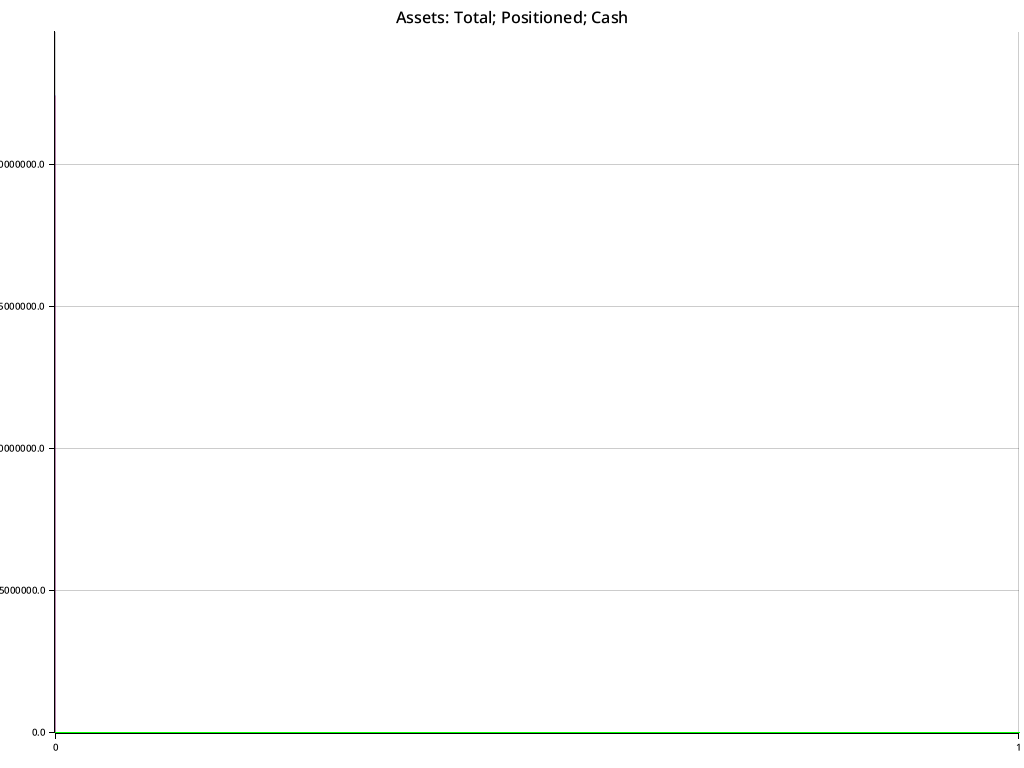
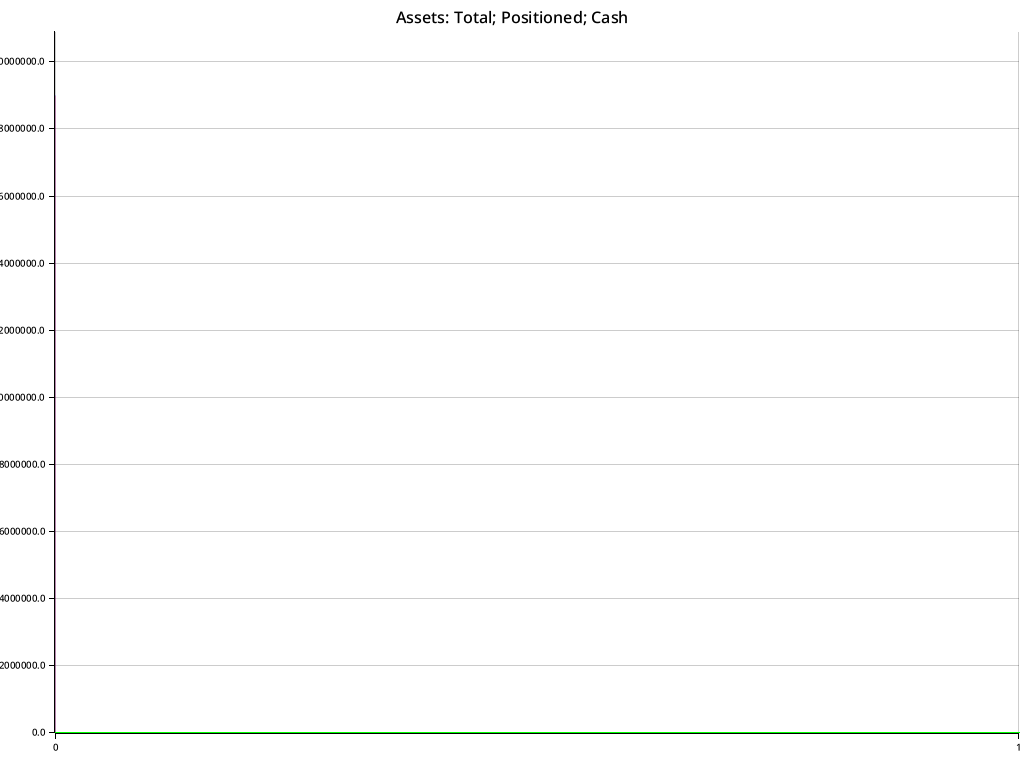
atlernative price and reward options

diff --git a/src/burn/env.rs b/src/burn/env.rs
@@ -9,12 +9,7 @@ use crate::{
         agent::base::{Action, ElemType, Environment, Snapshot},
         constants::OBSERVATION_SIZE,
         obs_state::ObservationState,
-    },
-    constants::TICKERS,
-    data::historical::get_historical_data,
-    history::{episode_tickers_combined::EpisodeHistory, meta_tickers_combined::MetaHistory},
-    types::Account,
-    utils::{get_mapped_price_deltas, get_price_deltas},
+    }, charts::general::simple_chart, constants::TICKERS, data::historical::get_historical_data, history::{episode_tickers_combined::EpisodeHistory, meta_tickers_combined::MetaHistory}, types::Account, utils::{get_mapped_price_deltas, get_mapped_price_normals, get_price_deltas}
 };
 
 #[derive(Debug)]
@@ -109,15 +104,15 @@ impl Environment for Env {
                     self.episode_history.sells[0]
                         .insert(self.step, (current_prices[self.step], quantity));
 
-                    reward += self
-                        .account
-                        .positions
-                        .iter()
-                        .enumerate()
-                        .map(|(index, position)| {
-                            position.appreciation(self.prices[index][self.step]) * sell_total
-                        })
-                        .sum::<f64>();
+                    // reward += self
+                    //     .account
+                    //     .positions
+                    //     .iter()
+                    //     .enumerate()
+                    //     .map(|(index, position)| {
+                    //         position.appreciation(self.prices[index][self.step]) * sell_total
+                    //     })
+                    //     .sum::<f64>();
                 }
             }
             TradeAction::Hold => {}
@@ -141,10 +136,19 @@ impl Environment for Env {
         // Reward
 
         self.account.update_total(&self.prices, self.step);
-        // let reward = (self.account.total_assets - total_assets) / total_assets;
+        let reward = (self.account.total_assets - total_assets) / total_assets;
         // let reward = self.account.total_assets - Self::STARTING_CASH;
         // Increase/decrease in value of positions
-        // let reward = self.account.positions.iter().enumerate().map(|(index, position)| position.appreciation(self.prices[index][self.step])).sum();
+        // let reward = self
+        //     .account
+        //     .positions
+        //     .iter()
+        //     .enumerate()
+        //     .map(|(index, position)| {
+        //         position.appreciation(self.prices[index][self.step])
+        //             * position.cost_basis()
+        //     })
+        //     .sum();
 
         self.episode_history.rewards.push(reward);
 
@@ -178,10 +182,13 @@ impl Environment for Env {
     }
 
     fn reset(&mut self) -> Snapshot<Self> {
-        self.tickers = vec![vec!["TSLA", "AAPL", "AMD", "INTC", "MSFT"]
-            .choose(&mut self.rng)
-            .unwrap()
-            .to_string()];
+        self.tickers = vec![
+            "NVDA".to_string(),
+            // vec!["TSLA", "AAPL", "AMD", "INTC", "MSFT"]
+            // .choose(&mut self.rng)
+            // .unwrap()
+            // .to_string()
+        ];
         let mapped_bars = get_historical_data(Some(
             &self
                 .tickers
@@ -193,13 +200,19 @@ impl Environment for Env {
             .iter()
             .map(|bar| bar.iter().map(|bar| bar.close).collect())
             .collect();
-        self.price_deltas = get_mapped_price_deltas(&mapped_bars);
+        self.price_deltas = get_mapped_price_normals(&mapped_bars);
 
         self.account = Account::new(Self::STARTING_CASH, self.tickers.len());
         self.step = Self::STARTING_STEP;
 
         self.episode_history = EpisodeHistory::new(self.tickers.len());
         self.state = ObservationState::new_random();
+        
+        if self.episode == 0 {
+        for (ticker_index, _) in self.tickers.iter().enumerate() {
+            let _ = simple_chart(&"training/data".to_string(), format!("price_observations_{}", ticker_index).as_str(), &self.price_deltas[ticker_index]);
+        }
+        }
 
         Snapshot::new(self.state, 0.0, false)
     }

diff --git a/src/utils.rs b/src/utils.rs
@@ -194,7 +194,7 @@ pub fn get_mapped_price_deltas(data: &MappedHistorical) -> Vec<Vec<f64>> {
 }
 
 pub fn get_price_deltas(data: &[Bar]) -> Vec<f64> {
-    let mut diff = vec![];
+    let mut diff = Vec::with_capacity(data.len());
 
     for (index, value) in data.iter().enumerate() {
         let previous = {
@@ -212,28 +212,21 @@ pub fn get_price_deltas(data: &[Bar]) -> Vec<f64> {
     diff
 }
 
-// pub fn get_mapped_price_normals(data: &MappedHistorical) -> Vec<Vec<f64>> {
-//     data.iter().map(|bars| get_price_normals(bars)).collect()
-// }
+pub fn get_mapped_price_normals(data: &MappedHistorical) -> Vec<Vec<f64>> {
+    data.iter().map(|bars| get_price_normals(bars)).collect()
+}
 
-// pub fn get_price_normals(data: &[Bar]) -> Vec<f64> {
-//     let mut diff = vec![];
+pub fn get_price_normals(data: &[Bar]) -> Vec<f64> {
+    let mut norms = Vec::with_capacity(data.len());
+    
+    let min = data.iter().min_by(|a, b| a.close.partial_cmp(&b.close).unwrap()).unwrap().close;
 
-//     for (index, value) in data.iter().enumerate() {
-//         let previous = {
-//             let (previous_index, overflowed) = index.overflowing_sub(1);
+    for price in data.iter() {
+        norms.push((price.close - min) / min)
+    }
 
-//             if overflowed {
-//                 100.
-//             } else {
-//                 data[previous_index].close
-//             }
-//         };
-//         diff.push((value.close - previous) / previous)
-//     }
-
-//     diff
-// }
+    norms
+}
 
 /// Returns how many stocks can be bought for a given a total price and a max amount
 pub fn round_to_stock(price: f64, max: f64) -> (f64, u32) {

diff --git a/src/burn/obs_state.rs b/src/burn/obs_state.rs
@@ -21,9 +21,9 @@ impl ObservationState {
         step: usize,
         account: &Account,
         prices: &[Vec<f64>],
-        ticker_price_deltas: &[Vec<f64>],
+        ticker_price_obs: &[Vec<f64>],
     ) -> Self {
-        let mut data: Vec<f16> = Vec::with_capacity(prices[0].len());
+        let mut data: Vec<f16> = Vec::with_capacity(OBSERVATION_SIZE);
 
         data.push((account.cash / account.total_assets) as f16);
         data.extend(
@@ -64,7 +64,7 @@ impl ObservationState {
         //     }
         // }
 
-        for price_deltas in ticker_price_deltas.iter() {
+        for price_deltas in ticker_price_obs.iter() {
             for i in 0..(OBSERVATION_SIZE - data.len()) {
                 if let Some(price_diff) = price_deltas.get(step - i) {
                     data.push(*price_diff as f16);

diff --git a/src/types.rs b/src/types.rs
@@ -35,7 +35,7 @@ impl Account {
     }
     
     pub fn cost_basis(&self) -> f64 {
-        self.positions.iter().map(|p| p.value()).sum::<f64>()
+        self.positions.iter().map(|p| p.cost_basis()).sum::<f64>()
     }
     
     pub fn position_percents(&self, prices: &[Vec<f64>], step: usize) -> Vec<f64> {
@@ -68,7 +68,7 @@ impl Position {
     }
 
     /// The total value of the position based on the purchased avg price
-    pub fn value(&self) -> f64 {
+    pub fn cost_basis(&self) -> f64 {
         self.avg_price * self.quantity
     }
 

diff --git a/src/history/episode_tickers_combined.rs b/src/history/episode_tickers_combined.rs
@@ -33,7 +33,7 @@ impl EpisodeHistory {
 
         for (ticker_index, prices) in prices.iter().enumerate() {
             let ticker = &tickers[ticker_index];
-            let ticker_dir = format!("{TRAINING_PATH}/gens/{}/{ticker:?}", episode);
+            let ticker_dir = format!("{TRAINING_PATH}/gens/{}/{ticker}", episode);
             create_folder_if_not_exists(&ticker_dir);
 
             let ticker_buy_indexes = &self.buys[ticker_index];
